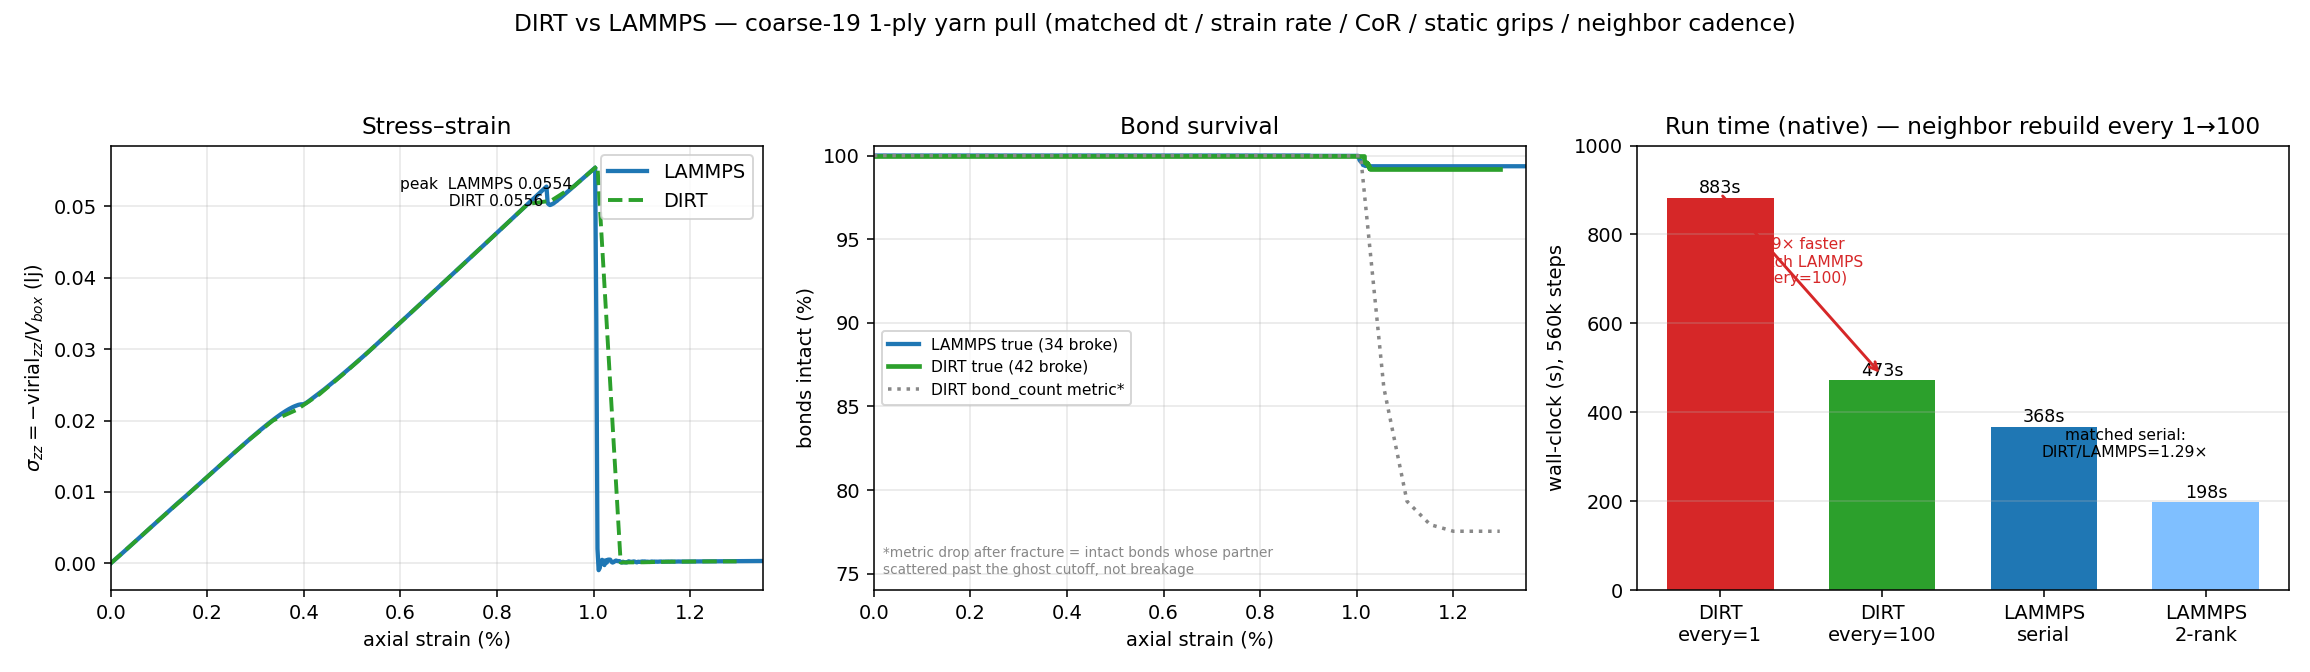
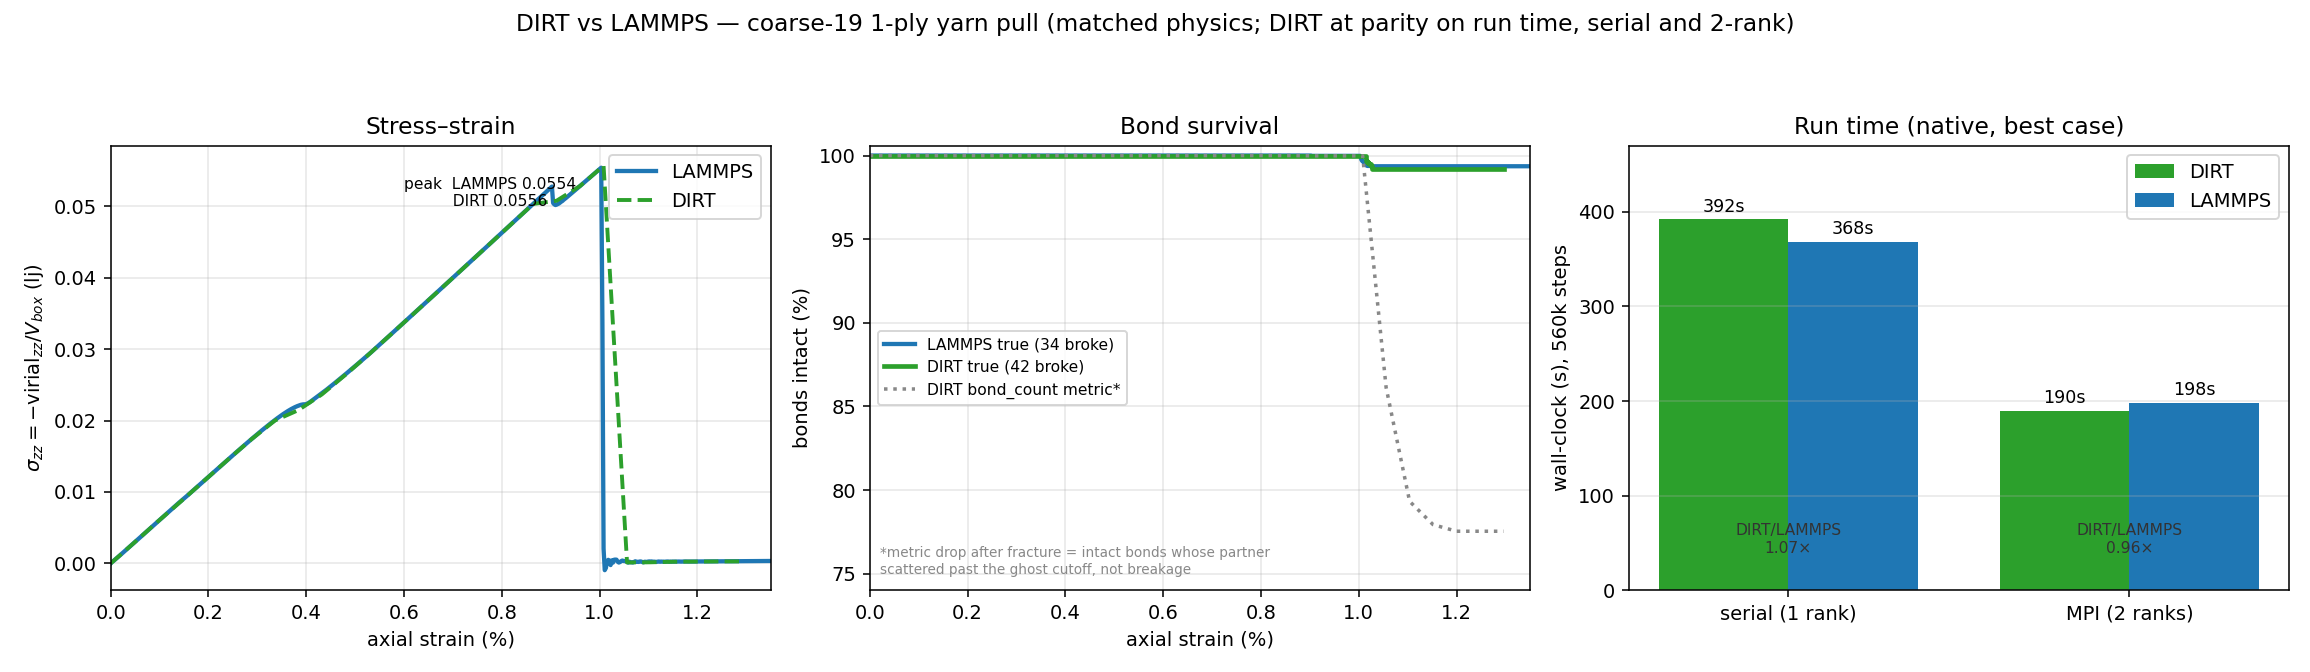
bench_yarn_pull_coarse19: DIRT-vs-LAMMPS timing figure + 2-rank config
Update the comparison figure's timing panel to DIRT best case vs LAMMPS at serial
and 2 ranks (full 560k-step native runs): DIRT 392s/190s vs LAMMPS 368s/198s —
parity serial (1.07x), slightly faster at 2 ranks (0.96x), DIRT scaling 2.06x vs
LAMMPS 1.86x. Physics panels unchanged (bit-identical; the neighbour-exclusion and
MPI-bond fixes do not alter the 42-break sequence). Add config_2rank.toml (z-split
variant) so the MPI run is reproducible.

diff --git a/examples/bench_yarn_pull_coarse19/plot_comparison.py b/examples/bench_yarn_pull_coarse19/plot_comparison.py
@@ -15,9 +15,11 @@ N0 = 5311                                   # initial bonds
 STEP2STRAIN = 0.000216 / 9000 * 100.0       # step -> strain %
 VBOX = 720 * 720 * 13000                    # LAMMPS box volume (stress normalisation)
 
-# Wall-clock, native builds, 560k steps (see README):
-TIMING = [("DIRT\nevery=1", 883.0), ("DIRT\nevery=100", 473.0),
-          ("LAMMPS\nserial", 368.0), ("LAMMPS\n2-rank", 198.0)]
+# Wall-clock (s), native builds, 560k steps, DIRT best case (neighbour every=100 +
+# molecule/intra exclusion). Full runs; DIRT via /usr/bin/time, LAMMPS loop time.
+#            serial  2-rank
+TIMING_DIRT   = [392.0, 190.0]
+TIMING_LAMMPS = [368.0, 198.0]
 
 # ── DIRT stress-strain + bond_count metric ────────────────────────────────────
 dx, ds, dmetric = [], [], []
@@ -67,24 +69,26 @@ ax[1].text(0.02, 75, "*metric drop after fracture = intact bonds whose partner\n
                      "scattered past the ghost cutoff, not breakage",
            fontsize=7, color="#888888")
 
-# Panel 3 — wall-clock timing (neighbor rebuild cadence + rank comparison)
-labels = [t[0] for t in TIMING]; vals = [t[1] for t in TIMING]
-cols = ["#d62728", "#2ca02c", "#1f77b4", "#7fbfff"]
-bars = ax[2].bar(labels, vals, color=cols, width=0.66)
-for b, v in zip(bars, vals):
-    ax[2].text(b.get_x() + b.get_width() / 2, v + 10, f"{v:.0f}s", ha="center", fontsize=9)
-ax[2].annotate("", xy=(1, vals[1] + 10), xytext=(0, vals[0] + 10),
-               arrowprops=dict(arrowstyle="->", color="#d62728", lw=1.5))
-ax[2].text(0.5, 690, "%.1f× faster\n(match LAMMPS\nevery=100)" % (vals[0] / vals[1]),
-           color="#d62728", fontsize=8, ha="center")
-ax[2].text(2.5, 300, "matched serial:\nDIRT/LAMMPS=%.2f×" % (vals[1] / vals[2]),
-           fontsize=8, ha="center")
+# Panel 3 — wall-clock: DIRT vs LAMMPS at serial and 2-rank (grouped)
+import numpy as np
+x = np.arange(2); w = 0.38
+bd = ax[2].bar(x - w / 2, TIMING_DIRT, w, color="#2ca02c", label="DIRT")
+bl = ax[2].bar(x + w / 2, TIMING_LAMMPS, w, color="#1f77b4", label="LAMMPS")
+for bars in (bd, bl):
+    for b in bars:
+        ax[2].text(b.get_x() + b.get_width() / 2, b.get_height() + 8,
+                   f"{b.get_height():.0f}s", ha="center", fontsize=9)
+for k in range(2):
+    ax[2].text(k, 40, "DIRT/LAMMPS\n%.2f×" % (TIMING_DIRT[k] / TIMING_LAMMPS[k]),
+               ha="center", fontsize=8, color="#333333")
+ax[2].set_xticks(x); ax[2].set_xticklabels(["serial (1 rank)", "MPI (2 ranks)"])
 ax[2].set_ylabel("wall-clock (s), 560k steps")
-ax[2].set_title("Run time (native) — neighbor rebuild every 1→100")
-ax[2].grid(alpha=0.3, axis="y"); ax[2].set_ylim(0, 1000)
+ax[2].set_title("Run time (native, best case)")
+ax[2].legend(loc="upper right"); ax[2].grid(alpha=0.3, axis="y")
+ax[2].set_ylim(0, 470)
 
 fig.suptitle("DIRT vs LAMMPS — coarse-19 1-ply yarn pull "
-             "(matched dt / strain rate / CoR / static grips / neighbor cadence)", fontsize=12)
+             "(matched physics; DIRT at parity on run time, serial and 2-rank)", fontsize=12)
 fig.tight_layout(rect=[0, 0, 1, 0.93])
 out = f"{EX}/plots/stress_strain_comparison.png"
 fig.savefig(out, dpi=140)
